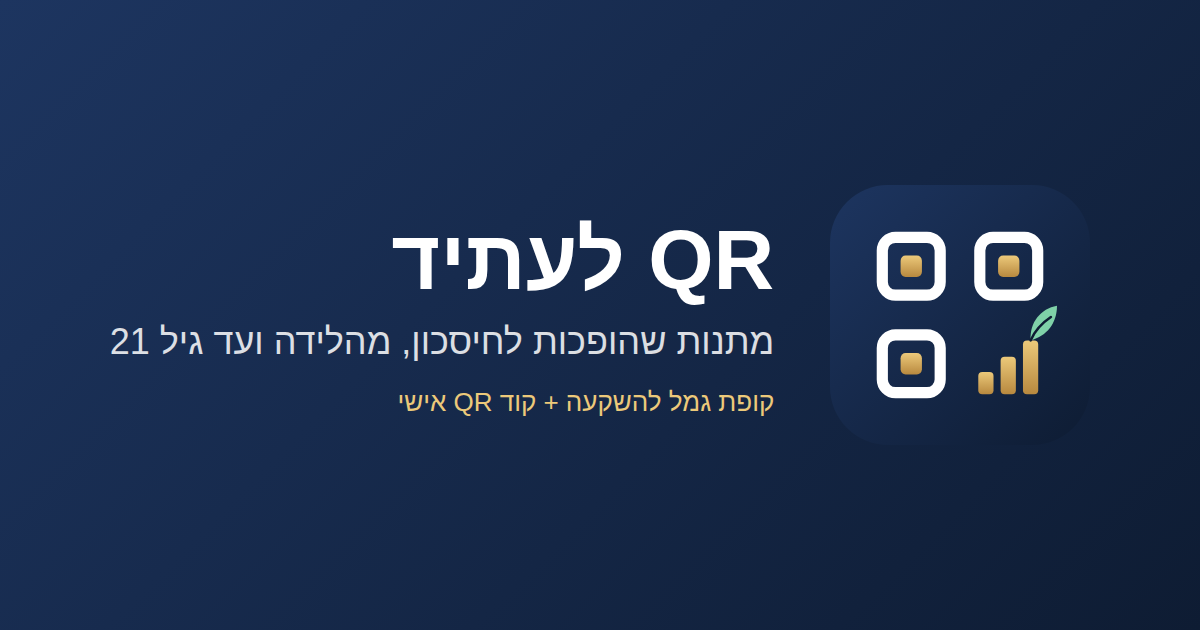
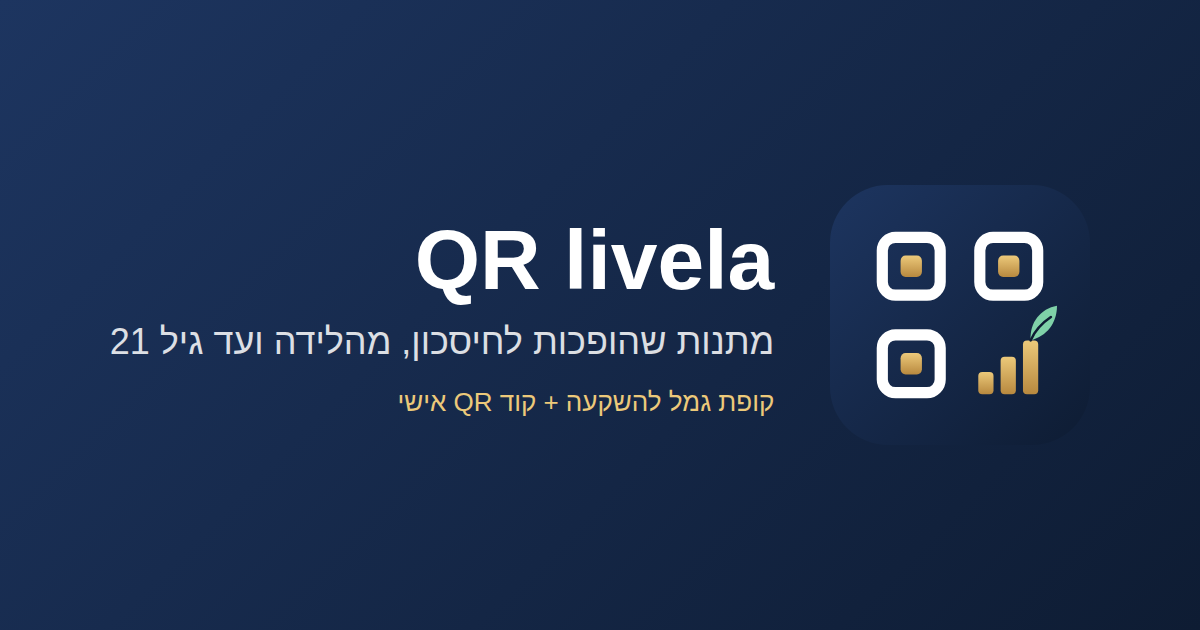
Rename the app to QR livela
Name, home-screen title, manifest, share image, SMS text and footer.

Claude-Session: https://claude.ai/code/session_01UF4xV9996hmV2M6cytsoQz

Changed region(s): [[0.3083, 0.3317, 0.6475, 0.4825]]

diff --git a/web/src/i18n/more.ts b/web/src/i18n/more.ts
@@ -3,8 +3,8 @@
  * employer and admin areas, payments and the investment fund. Overrides base keys.
  */
 export const heMore = {
-  appName: 'QR לעתיד',
-  'footer.regulatory': 'QR לעתיד היא שכבת טכנולוגיה. הכספים מוחזקים בקופת גמל להשקעה על שם הילד, אצל בית השקעות בפיקוח רשות שוק ההון. אין באמור ייעוץ השקעות. סביבת הדגמה: אין חיבור לבתי השקעות ואין תנועת כסף.',
+  appName: 'QR livela',
+  'footer.regulatory': 'QR livela היא שכבת טכנולוגיה. הכספים מוחזקים בקופת גמל להשקעה על שם הילד, אצל בית השקעות בפיקוח רשות שוק ההון. אין באמור ייעוץ השקעות. סביבת הדגמה: אין חיבור לבתי השקעות ואין תנועת כסף.',
 
   // Entry portal
   'portal.eyebrow': 'קוד QR אישי לכל ילד, לכל החיים',
@@ -603,7 +603,7 @@ export const heMore = {
   'app.desktopSteps': 'נכנסים לאתר מכל דפדפן, לוחצים "האזור האישי" ומזדהים עם ת״ז וקוד לטלפון. ב־Chrome וב־Edge אפשר גם להתקין כאפליקציה.',
   'app.install': 'התקנת האפליקציה',
   'app.installed': 'האפליקציה מותקנת במכשיר הזה',
-  'app.bannerText': 'רוצים את QR לעתיד כאייקון במסך הבית?',
+  'app.bannerText': 'רוצים את QR livela כאייקון במסך הבית?',
   'app.iosHint': 'לחצו על ⬆ שיתוף ואז "הוספה למסך הבית".',
   'app.later': 'לא עכשיו',
   'app.login': 'לאזור האישי',
@@ -699,8 +699,8 @@ export const heMore = {
 };
 
 export const enMore: Record<keyof typeof heMore, string> = {
-  appName: 'Future QR',
-  'footer.regulatory': 'Future QR is a technology layer. Money is held in an investment provident fund (kupat gemel lehashkaa) in the child\'s name at a licensed investment house. Not investment advice. Demo environment: no connection to investment houses and no real money.',
+  appName: 'QR livela',
+  'footer.regulatory': 'QR livela is a technology layer. Money is held in an investment provident fund (kupat gemel lehashkaa) in the child\'s name at a licensed investment house. Not investment advice. Demo environment: no connection to investment houses and no real money.',
   'portal.eyebrow': 'A personal QR for every child, for life',
   'portal.title': 'Gifts, pocket money and a first salary, in one savings that grows with your child',
   'portal.lead': 'Family, friends and the parents\' employer send money to the child\'s QR by Bit, PayBox, card or bank transfer. It is invested in a provident fund in the child\'s name at the investment house the parents chose.',
@@ -1271,7 +1271,7 @@ export const enMore: Record<keyof typeof heMore, string> = {
   'app.desktopSteps': 'Open the site in any browser, click "Personal area" and sign in with your ID and a code to your phone. Chrome and Edge can also install it as an app.',
   'app.install': 'Install the app',
   'app.installed': 'The app is installed on this device',
-  'app.bannerText': 'Want QR for the Future as a home-screen icon?',
+  'app.bannerText': 'Want QR livela as a home-screen icon?',
   'app.iosHint': 'Tap ⬆ Share, then "Add to Home Screen".',
   'app.later': 'Not now',
   'app.login': 'Personal area',

diff --git a/web/index.html b/web/index.html
@@ -12,17 +12,17 @@
     <!-- Home-screen app on iPhone: full screen, own name and status bar -->
     <meta name="apple-mobile-web-app-capable" content="yes" />
     <meta name="mobile-web-app-capable" content="yes" />
-    <meta name="apple-mobile-web-app-title" content="QR לעתיד" />
+    <meta name="apple-mobile-web-app-title" content="QR livela" />
     <meta name="apple-mobile-web-app-status-bar-style" content="black-translucent" />
-    <meta name="application-name" content="QR לעתיד" />
-    <meta property="og:title" content="QR לעתיד" />
+    <meta name="application-name" content="QR livela" />
+    <meta property="og:title" content="QR livela" />
     <meta property="og:description" content="קוד QR אישי וקופת גמל להשקעה לכל ילד: מתנות שהופכות לחיסכון." />
     <meta property="og:image" content="/og-image.png" />
     <meta property="og:type" content="website" />
     <link rel="preconnect" href="https://fonts.googleapis.com" />
     <link rel="preconnect" href="https://fonts.gstatic.com" crossorigin />
     <link href="https://fonts.googleapis.com/css2?family=Frank+Ruhl+Libre:wght@500;700&family=Heebo:wght@400;500;600;700;800&family=Rubik:wght@400;500;600;700;800&family=Varela+Round&display=swap" rel="stylesheet" />
-    <title>QR לעתיד</title>
+    <title>QR livela</title>
   </head>
   <body>
     <div id="root"></div>

diff --git a/server/src/lib/otp.js b/server/src/lib/otp.js
@@ -39,7 +39,7 @@ export function sendCode({ db, notifier }, user) {
   if (recent >= MAX_SENDS) return { error: 'too_many_codes' };
   const code = String(crypto.randomInt(0, 1000000)).padStart(6, '0');
   db.prepare(`INSERT INTO login_codes (user_id, code_hash, expires_at) VALUES (?,?,datetime('now','+${CODE_TTL_MIN} minutes'))`).run(user.id, hashCode(user.id, code));
-  notifier.send({ channel: 'sms', to: user.phone, subject: 'קוד כניסה', body: `הקוד שלך ל-QR לעתיד: ${code}. בתוקף ${CODE_TTL_MIN} דקות. אל תמסרו אותו לאף אחד.` });
+  notifier.send({ channel: 'sms', to: user.phone, subject: 'קוד כניסה', body: `הקוד שלך ל-QR livela: ${code}. בתוקף ${CODE_TTL_MIN} דקות. אל תמסרו אותו לאף אחד.` });
   return { code };
 }
 

diff --git a/server/src/adapters/payments.js b/server/src/adapters/payments.js
@@ -41,7 +41,7 @@ export const METHODS = [
 export const PAYOUT_METHODS = ['bit', 'paybox', 'card', 'bank'];
 
 // Sandbox trust account at the investment partner, shown for bank transfers.
-const TRUST_ACCOUNT = { bank: '31', bankName: 'הבינלאומי', branch: '012', account: '123456', beneficiary: 'בית ההשקעות (נאמנות QR לעתיד)' };
+const TRUST_ACCOUNT = { bank: '31', bankName: 'הבינלאומי', branch: '012', account: '123456', beneficiary: 'בית ההשקעות (נאמנות QR livela)' };
 const SANDBOX_INSTITUTION_CODE = '52741';
 const ref = (p, n = 5) => `${p}-${crypto.randomBytes(n).toString('hex').toUpperCase()}`;
 

diff --git a/server/src/index.js b/server/src/index.js
@@ -18,4 +18,4 @@ const charge = () => { const r = runDuePledges(ctx); if (r.due) console.log('mon
 charge();
 setInterval(charge, 6 * 60 * 60 * 1000).unref();
 const port = Number(process.env.PORT) || 3000;
-app.listen(port, () => console.log(`QR לעתיד API on http://localhost:${port}`));
+app.listen(port, () => console.log(`QR livela API on http://localhost:${port}`));

diff --git a/web/src/i18n/en.ts b/web/src/i18n/en.ts
@@ -1,7 +1,7 @@
 import type { Dict } from './he';
 
 const en: Dict = {
-  appName: 'Future QR',
+  appName: 'QR livela',
   tagline: 'A birthday gift that grows up with your child',
   'nav.home': 'Home',
   'nav.dashboard': 'My kids',

diff --git a/web/src/i18n/he.ts b/web/src/i18n/he.ts
@@ -1,5 +1,5 @@
 const he = {
-  appName: 'QR לעתיד',
+  appName: 'QR livela',
   tagline: 'מתנת יום הולדת שגדלה עם הילד',
   'nav.home': 'בית',
   'nav.dashboard': 'הילדים שלי',

diff --git a/README.md b/README.md
@@ -1,4 +1,4 @@
-# QR לעתיד · Future QR
+# QR livela
 
 כל ילד מקבל קוד QR אישי לכל החיים. משפחה וחברים סורקים, נותנים מתנת יום הולדת, והכסף מושקע בחשבון על שם הילד אצל בית השקעות מפוקח עד גיל 21.
 
